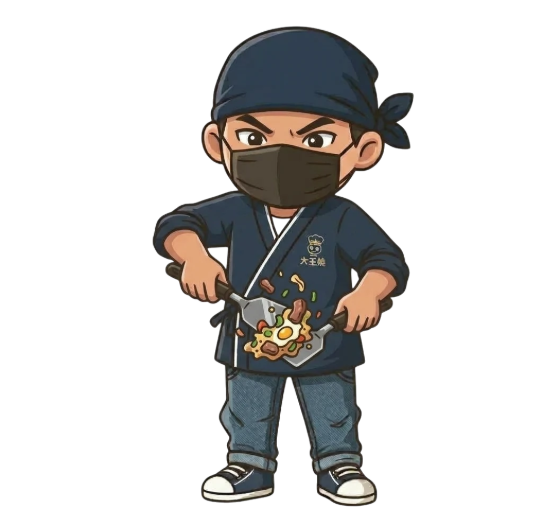
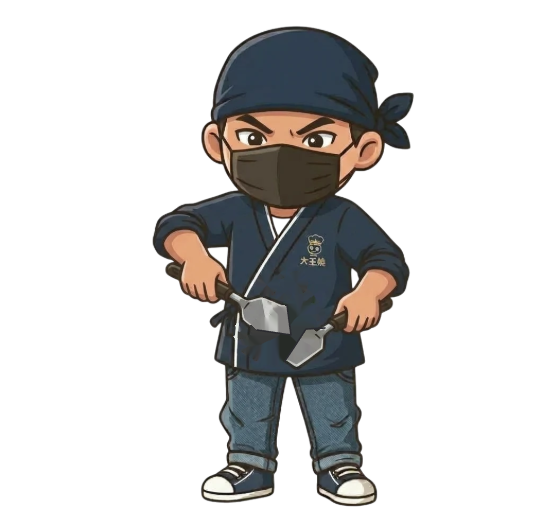
Spatula-only chef pose, GREAT outline, tutorial tag on song select
- Chef "spatula" pose: remove the fried food so empty presses don't
  show food out of nowhere (blades and jacket inpainted)
- GREAT judgement image gets a white outline like NICE / GOOD / BAD
- Song select: tutorial button is now a hanging wooden tag at the top
  right (menu style) with a pulsing glow and a periodic wiggle
- Credits steam lighter; "irasshaimase" voice quieter
- Service worker cache v11

Changed region(s): [[0.3946, 0.5171, 0.5768, 0.6996]]

diff --git a/js/i18n.js b/js/i18n.js
@@ -7,10 +7,10 @@ const LANGS = [['zh', '中文'], ['ja', '日本語'], ['en', 'English']];
 
 const I18N = {
   zh: {
-    'sub.start': 'START', 'sub.howto': 'HOW TO PLAY', 'sub.ranking': 'RANKING', 'sub.settings': 'SETTINGS', 'sub.credits': 'CREDIT',
+    'sub.start': 'START', 'sub.howto': 'HOW TO PLAY', 'sub.ranking': 'RANKING', 'sub.settings': 'SETTINGS', 'sub.credits': 'CREDIT', 'sub.tutorial': 'TUTORIAL',
   },
   ja: {
-    'sub.start': 'START', 'sub.howto': 'HOW TO PLAY', 'sub.ranking': 'RANKING', 'sub.settings': 'SETTINGS', 'sub.credits': 'CREDIT',
+    'sub.start': 'START', 'sub.howto': 'HOW TO PLAY', 'sub.ranking': 'RANKING', 'sub.settings': 'SETTINGS', 'sub.credits': 'CREDIT', 'sub.tutorial': 'TUTORIAL',
     // 開始 / 主選單
     '節奏熱炒遊戲': 'リズム鉄板ゲーム', '開始遊戲': 'ゲーム開始', '操作說明': 'あそびかた', '排行榜': 'ランキング', '設定': 'せってい', 'CREDIT': 'クレジット',
     '十字鍵 選擇　A 決定　B 返回': '十字キー 選択　A 決定　B 戻る', '點選按鈕': 'ボタンをタップ', '↑↓ 選擇　ENTER 決定　ESC 返回': '↑↓ 選択　ENTER 決定　ESC 戻る',
@@ -82,7 +82,7 @@ const I18N = {
     '請將手機直立握持': 'スマホを縦に持ってください',
   },
   en: {
-    'sub.start': 'はじめる', 'sub.howto': 'あそびかた', 'sub.ranking': 'ランキング', 'sub.settings': 'せってい', 'sub.credits': 'クレジット',
+    'sub.start': 'はじめる', 'sub.howto': 'あそびかた', 'sub.ranking': 'ランキング', 'sub.settings': 'せってい', 'sub.credits': 'クレジット', 'sub.tutorial': 'れんしゅう',
     '節奏熱炒遊戲': 'Rhythm Teppan Game', '開始遊戲': 'PLAY', '操作說明': 'HOW TO', '排行榜': 'RANKING', '設定': 'SETTINGS', 'CREDIT': 'CREDITS',
     '十字鍵 選擇　A 決定　B 返回': 'D-pad: select   A: OK   B: back', '點選按鈕': 'Tap a button', '↑↓ 選擇　ENTER 決定　ESC 返回': '↑↓ select   ENTER: OK   ESC: back',
     '繼續遊戲': 'RESUME', '重新開始': 'RESTART', '回主選單': 'MAIN MENU', '返回選擇樂曲': 'SONG SELECT', '繼續後會先倒數 3 拍，再接回原本的節拍': 'Resuming counts in 3 beats, then picks up the beat',

diff --git a/js/game.js b/js/game.js
@@ -518,7 +518,6 @@ const Game = {
     const fx = this.s.gradeFx; if (!fx || fx.t > 0.6) return;
     const s = fx.t < 0.1 ? 0.6 + fx.t / 0.1 * 0.5 : 1.1 - Math.min(0.1, (fx.t - 0.1));
     const a = fx.t > 0.45 ? 1 - (fx.t - 0.45) / 0.15 : 1, y = 770 - fx.t * 30;
-    if (fx.g === 'GREAT') { drawImgW(IMG.great_text, ZONE.x, y, 330 * s, 0, a); return; }
     drawGradeText(fx.g, ZONE.x, y, s, a);
   },
   drawHUD(pulse, st) {
@@ -606,9 +605,24 @@ const Game = {
   },
 };
 
+// GREAT 圖補上白色外框（和 NICE / GOOD / BAD 文字的白邊一致）：把圖的剪影往四周錯開疊成白底，只做一次
+let greatOutlined = null;
+function greatSprite() {
+  const img = IMG.great_text;
+  if (!greatOutlined) {
+    const R = Math.round(9 * img.width / 330), c = document.createElement('canvas');   // 白邊寬 ≈ 文字版的白邊（以畫面 330px 寬計）
+    c.width = img.width + R * 2; c.height = img.height + R * 2;
+    const g = c.getContext('2d');
+    for (const r of [R, R * 0.5]) for (let i = 0; i < 32; i++) g.drawImage(img, R + Math.cos(i / 32 * Math.PI * 2) * r, R + Math.sin(i / 32 * Math.PI * 2) * r);
+    g.globalCompositeOperation = 'source-in'; g.fillStyle = '#fff'; g.fillRect(0, 0, c.width, c.height);
+    g.globalCompositeOperation = 'source-over'; g.drawImage(img, R, R);
+    greatOutlined = { c, k: c.width / img.width };
+  }
+  return greatOutlined;
+}
 // GOOD / NICE / BAD 文字（與 GREAT 圖同風格）
 function drawGradeText(g, x, y, s = 1, a = 1, size = 86) {
-  if (g === 'GREAT' && IMG.great_text) { drawImgW(IMG.great_text, x, y, size * 3.85 * s, 0, a); return; }
+  if (g === 'GREAT' && IMG.great_text) { const o = greatSprite(); drawImgW(o.c, x, y, size * 3.85 * s * o.k, 0, a); return; }
   const [c1, c2, c3] = GRADE_STYLE[g], text = g === 'NICE' ? 'NICE!' : g;
   ctx.save(); ctx.globalAlpha = a; ctx.translate(x, y); ctx.scale(s, s);
   ctx.font = `${size}px ${FONT}`; ctx.textAlign = 'center'; ctx.textBaseline = 'middle'; ctx.lineJoin = 'round';

diff --git a/js/screens.js b/js/screens.js
@@ -351,8 +351,12 @@ Screens.songs = {
     UI.begin(this.bs);
     if (UI.button(this.bs, '返回', 50, 1040, 210, 76, { back: true }) || Input.was('back')) App.goto('menu');
     if (UI.button(this.bs, '開始遊戲', 280, 1034, 390, 86, { lacquer: true, sub: 'sub.start', size: 36 })) this.start();
-    // 小顆的「新手教學」：隨時可以回去複習
-    if (UI.button(this.bs, '新手教學', 270, 1138, 180, 48, { size: 21 })) App.goto('tutorial', { from: 'songs' });
+    // 右上角：掛在竹竿上的「新手教學」木札（和主選單同款）；燈火光暈＋每隔一陣子晃一下，提示可以按
+    const T = { x: 590, y: 40, w: 116, h: 82 }, pulse = 0.5 + 0.5 * Math.sin(Game.time * 3.2);
+    ctx.save(); ctx.globalCompositeOperation = 'lighter'; ctx.globalAlpha = 0.25 + pulse * 0.35;
+    ctx.drawImage(Scene.glowSprite('#ffb04a'), T.x - 34, T.y - 30, T.w + 68, T.h + 64); ctx.restore();
+    UI.pole(574, 20, 146);
+    if (UI.button(this.bs, '新手教學', T.x, T.y, T.w, T.h, { tag: true, sub: 'sub.tutorial', size: 22, ropeH: 20, wiggle: true })) App.goto('tutorial', { from: 'songs' });
     UI.hint(Input.touchMode ? '點兩下卡片也可以開始' : '↑↓ 選曲　← → 換頁　ENTER 開始');
   },
   card(song, i, x, y, w, h, on) {
@@ -994,7 +998,7 @@ Screens.credits = {
         const x = p.x + Math.sin(p.ph + age * 2.6) * p.amp * Math.min(1, k * 2) + (p.x - cx) * k * 0.3;
         const y = p.y - p.vy * age;
         const r = p.r * (1 + k * 1.6) * (1 - j * 0.15);
-        ctx.globalAlpha = Math.min(1, k * 5) * (1 - k) * (1 - k) * 0.75 * (1 - j * 0.2);   // 淡入 → 淡出
+        ctx.globalAlpha = Math.min(1, k * 5) * (1 - k) * (1 - k) * 0.5 * (1 - j * 0.2);   // 淡入 → 淡出
         ctx.drawImage(glow, x - r, y - r * 1.3, r * 2, r * 2.6);
       }
     }

diff --git a/js/ui.js b/js/ui.js
@@ -184,7 +184,10 @@ const UI = {
     const t = Game.time, cx = x + w / 2, r = o.tag ? 8 : Math.min(14, h * 0.2);
     ctx.save();
     if (o.tag) {   // 繩子＋擺動（以掛點為軸）
-      const top = y - (o.ropeH || 24), sw = Math.sin(t * 2.2 + i * 1.3) * (focus ? 0.06 : 0.02);
+      let sw = Math.sin(t * 2.2 + i * 1.3) * (focus ? 0.06 : 0.02);
+      // o.wiggle：每 3 秒「晃～」一下（像被風吹動），提示玩家可以按
+      if (o.wiggle && !focus) { const p = (t % 3) / 0.9; if (p < 1) sw += Math.sin(p * Math.PI * 4) * 0.13 * (1 - p); }
+      const top = y - (o.ropeH || 24);
       ctx.translate(cx, top); ctx.rotate(sw); ctx.translate(-cx, -top);
       ctx.strokeStyle = '#2a1608'; ctx.lineWidth = 3;
       ctx.beginPath(); ctx.moveTo(x + w * 0.26, y + 10); ctx.lineTo(cx, top); ctx.lineTo(x + w * 0.74, y + 10); ctx.stroke();

diff --git a/js/audio.js b/js/audio.js
@@ -165,7 +165,7 @@ const Sound = {
 
   // ---- 語音（錄音檔）：走音效音量（設定的「音效」可調、可靜音）；offset 跳過錄音開頭的靜音 ----
   VOICES: {
-    irasshaimase: { url: 'assets/audio/voice_irasshaimase.mp3', gain: 0.75, offset: 0.2 },   // 錄音本身很大聲（峰值 0.94）：調到比當下音樂清楚約 10dB、峰值與打擊音效相近
+    irasshaimase: { url: 'assets/audio/voice_irasshaimase.mp3', gain: 0.5, offset: 0.2 },   // 錄音本身很大聲（峰值 0.94）：比當下音樂清楚、但不搶戲（比打擊音效略小）
   },
   voices: {},
   loadVoices() {

diff --git a/sw.js b/sw.js
@@ -2,7 +2,7 @@
 
 // ===== Service Worker：讓遊戲可安裝成 APP、離線也能玩 =====
 // 發佈新版本時把 VERSION 加 1，舊快取會在下次開啟時清掉。
-const VERSION = 'v10';
+const VERSION = 'v11';
 const CACHE = 'daioyaki-' + VERSION;
 const IMAGES = ['bg_stall.jpg', 'griddle.png', 'button.png', 'great_text.png', 'okonomiyaki.png',
   'chef_idle.png', 'chef_wave.png', 'chef_knife.png', 'chef_spatula.png', 'chef_sauce.png', 'chef_great.png', 'chef_nice.png', 'chef_bad.png', 'chef_cheer.png',

diff --git a/docs/企畫書.md b/docs/企畫書.md
@@ -114,7 +114,7 @@
 | 開始畫面 | ★ 開場一開始的夜空（月亮、星星、遠處燈籠串）＋ TAP TO START／PRESS ANY KEY（依輸入裝置切換）；點一下無縫接進開場（這一下同時解除瀏覽器的音效限制，開場才有聲音） |
 | 開場 | ★ 約 7.6 秒：野台從畫面下方緩緩升起（同時夜空施放 8 發煙火，有升空哨音、爆炸聲與劈啪聲）→ 落地揚塵、燈籠一盞盞亮起 → 主角從右邊一蹦一跳走進野台 → 揮手「歡迎光臨！」（「いらっしゃいませ！」語音）→ 暖簾落下 → 淡入主選單（構圖相同、音樂不中斷）。演出中點畫面／按任意鍵立即跳到主選單 |
 | 主選單 | 開始遊戲、操作說明、排行榜、設定、CREDIT；選單有背景音樂。第一次按「開始遊戲」會先進入新手教學 |
-| 選擇樂曲 | ★ 10 首歌分兩頁（VOL.1 / VOL.2，各 1～5 星），木牌卡片：歌名、副標・風格、BPM、星級（最多 5 星）、HISCORE；選中的歌自動試聽；下方小顆「新手教學」按鈕可隨時複習 |
+| 選擇樂曲 | ★ 10 首歌分兩頁（VOL.1 / VOL.2，各 1～5 星），木牌卡片：歌名、副標・風格、BPM、星級（最多 5 星）、HISCORE；選中的歌自動試聽；右上角掛著「新手教學」木札（會發光、每隔幾秒晃一下）可隨時複習 |
 | 新手教學 | 可以玩的練習（84 BPM 慢歌）：① 單拍＋時機提示圈 4 次 → ② 連續打 6 次 → ③ 做出 1 份廣島燒；達成後自動進下一步，完成卡片列出要訣。可暫停、略過（略過也算看過） |
 | 操作說明 | 4 頁：遊戲規則、操作方式（顯示手把是否已連接）、判定與計分、食材圖鑑；手機可左右滑動換頁 |
 | 設定 | 音樂音量、音效音量（0～5）；★ 判定校正（±150ms，並顯示上一局平均時間差）；手機震動 ON/OFF；★ 省電模式 ON/OFF（30 幀、低解析度、少特效）；語言（中文／日本語／English）；★ 安裝到主畫面（PWA 簡易教學，依裝置排序並標示「你的裝置」） |
